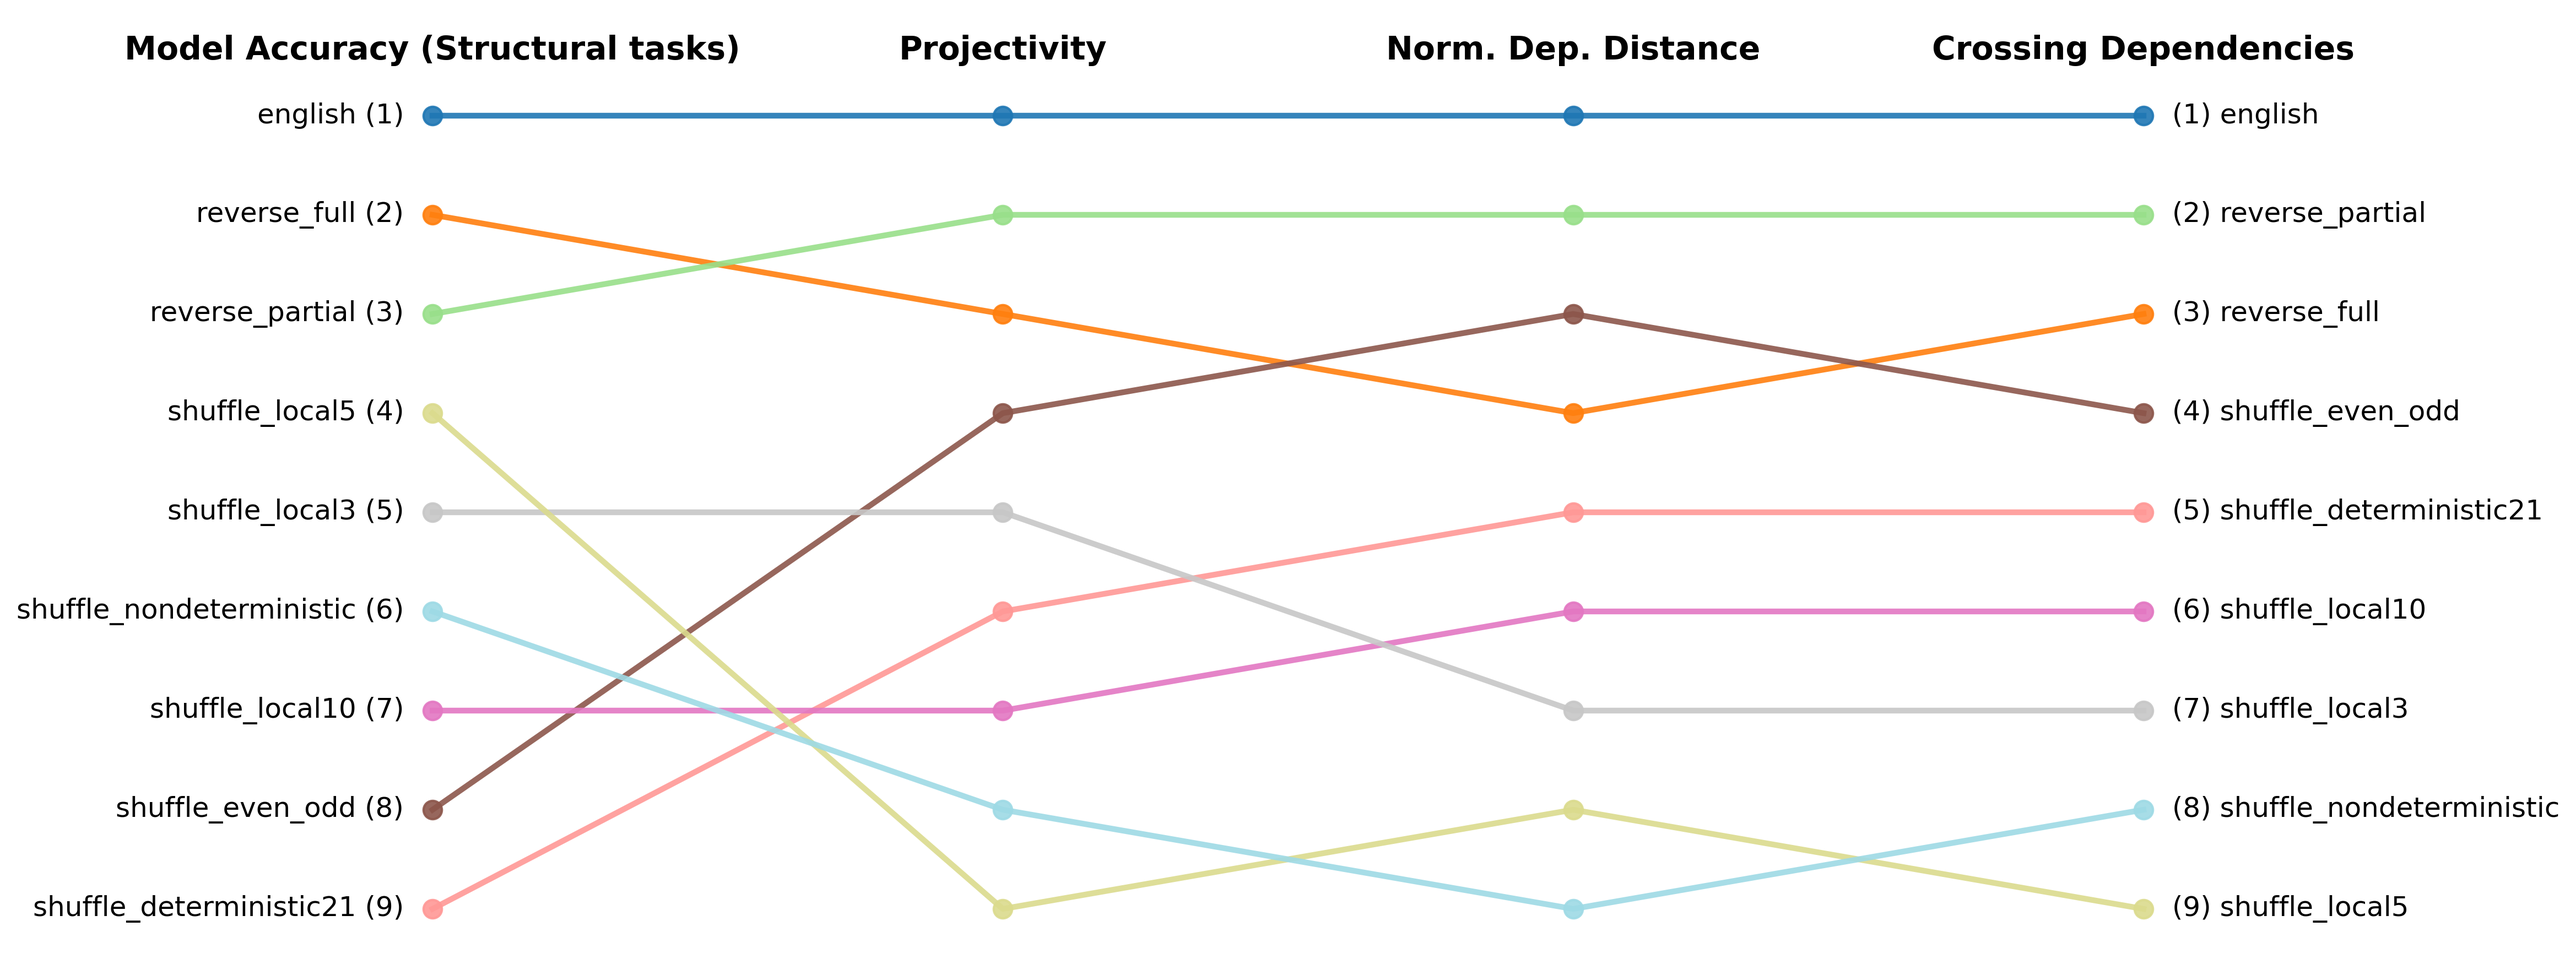
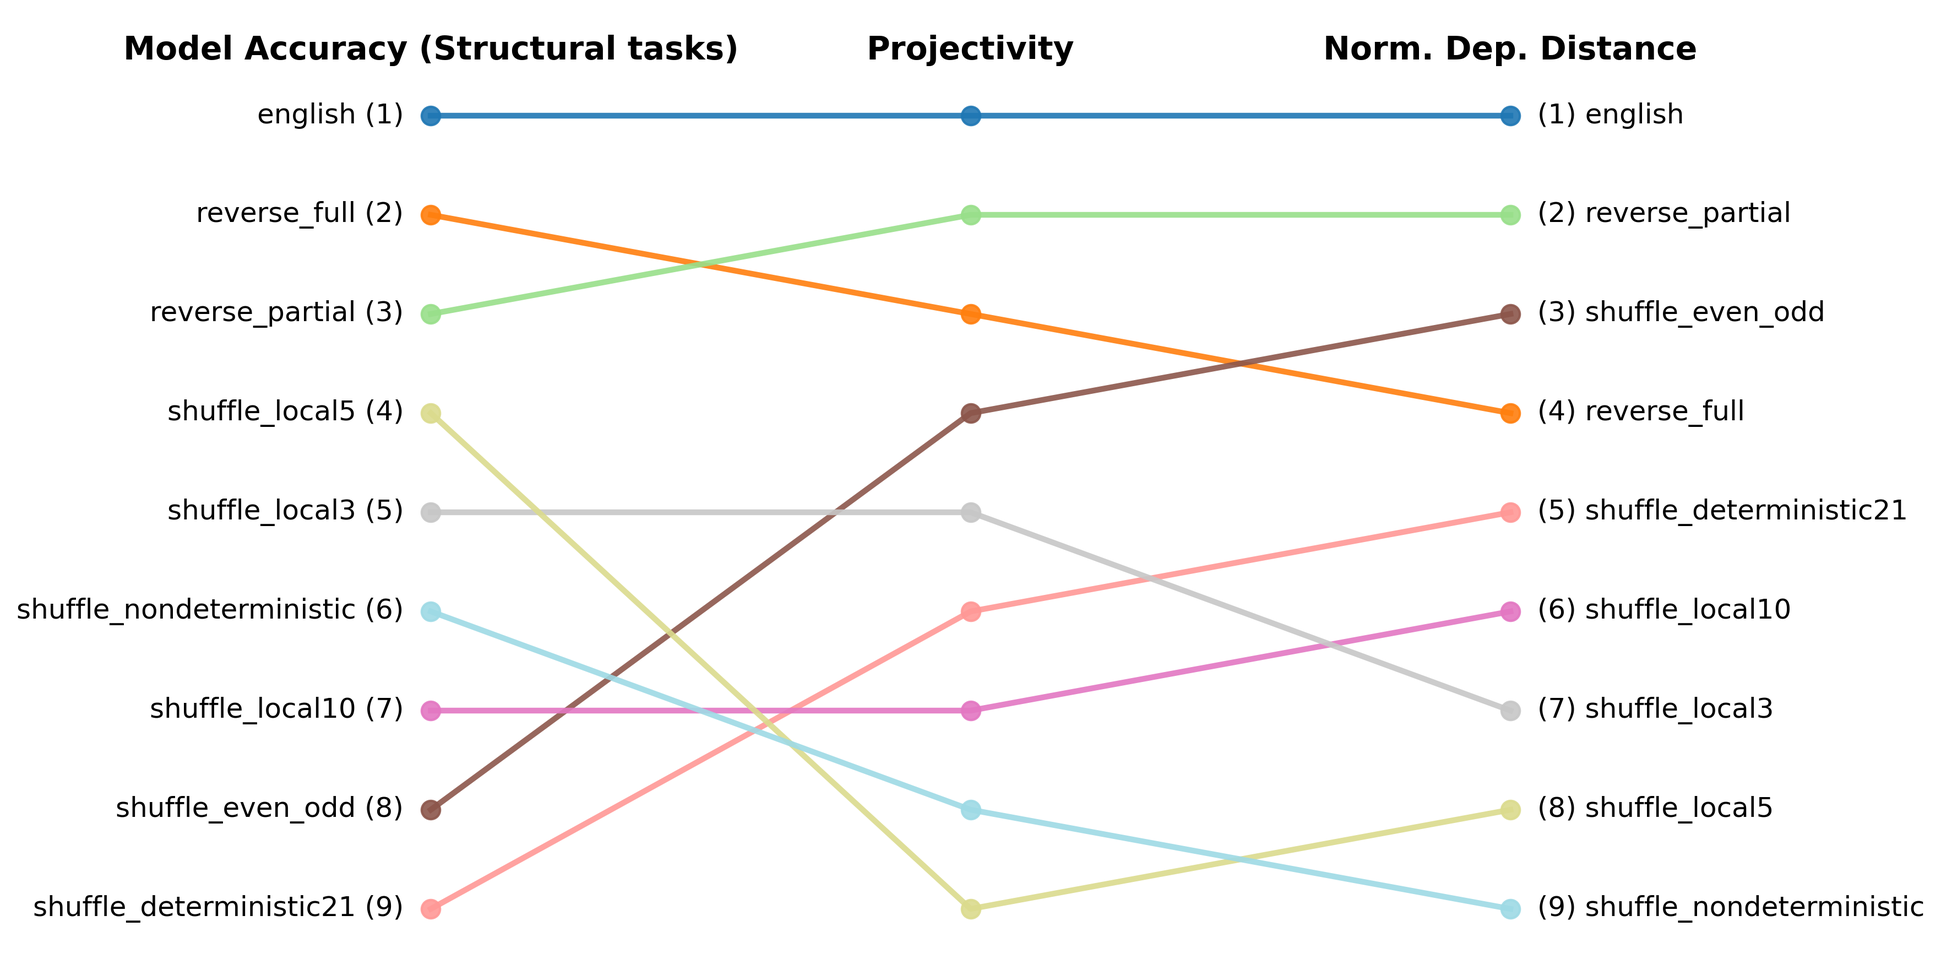
Update dependency parse metrics to remove crossing dependency count

diff --git a/analysis/dependency/dependency_parse_stats.py b/analysis/dependency/dependency_parse_stats.py
@@ -1,3 +1,5 @@
+from ast import List
+import string
 import spacy
 import pandas as pd
 import matplotlib.pyplot as plt
@@ -109,7 +111,7 @@ def aggregate_stats(filepath):
 
 
 
-def generate_stats_table_image(filepath):
+def generate_stats_table_image(filepath, column):
     """Generates and saves a PNG image of the aggregated stats table."""
     df = pd.read_csv(filepath)
     grouped = df.groupby('perturbation')
@@ -127,7 +129,8 @@ def generate_stats_table_image(filepath):
 
     # Create a DataFrame from the aggregated stats
     stats_df = pd.DataFrame.from_dict(agg_stats, orient='index')
-    stats_df = stats_df.sort_values(by='proportion_projective', ascending=False)
+    ascending = column == 'avg_norm_dep_distance'
+    stats_df = stats_df.sort_values(by=column, ascending=ascending)
 
     # Prepare data for the table
     stats_df.index.name = 'Perturbation Type'
@@ -137,35 +140,40 @@ def generate_stats_table_image(filepath):
     # Select and rename columns for the final table
     table_df = stats_df[[
         'Perturbation Type',
-        'proportion_projective',
-        'avg_norm_dep_distance',
+        column,
+        # 'avg_norm_dep_distance',
         # 'avg_total_dep_distance',
-        'avg_crossing_deps',
+        # 'avg_crossing_deps',
         # 'num_sentences'
     ]].copy()
 
+    if column == 'avg_norm_dep_distance':
+        title = 'Avg Norm Dep Distance'
+    else:
+        title = 'Proportion Projective'
+
     table_df.columns = [
         'Perturbation Type',
-        'Proportion Projective',
-        'Avg Norm Dep Distance',
+        title,
         # 'Avg Total Dep Distance',
-        'Avg Crossing Deps',
+        # 'Avg Crossing Deps',
         # 'Num Sentences'
     ]
 
     # Round the float values for better display
-    for col in ['Avg Norm Dep Distance', 'Avg Crossing Deps']:
-        table_df[col] = table_df[col].round(2)
-    table_df['Proportion Projective'] = (table_df['Proportion Projective'] * 100).round(2).astype(str) + '%'
+    if column == 'avg_norm_dep_distance':
+        table_df['Avg Norm Dep Distance'] = table_df['Avg Norm Dep Distance'].round(2)
+    else:
+        table_df['Proportion Projective'] = (table_df['Proportion Projective'] * 100).round(2).astype(str) + '%'
 
     # Create the table image
-    fig, ax = plt.subplots(figsize=(12, 4))
+    fig, ax = plt.subplots(figsize=(6, 4))
     ax.axis('tight')
     ax.axis('off')
     the_table = ax.table(cellText=table_df.values, colLabels=table_df.columns, loc='center', cellLoc='center')
     the_table.auto_set_font_size(False)
     the_table.set_fontsize(10)
-    the_table.scale(1.2, 1.2)
+    # the_table.scale(1.2, 1.2)
 
     # Make the header row bold, larger, and with a background color
     header_cells = the_table._cells
@@ -176,14 +184,31 @@ def generate_stats_table_image(filepath):
             cell.set_edgecolor('black')
 
     # Save the figure
-    output_path = Path(filepath).parent / 'dependency_metrics_summary.png'
+    filename = 'dependency_metrics_summary_' + column + '.png'
+    output_path = Path(filepath).parent / filename
     plt.savefig(output_path, bbox_inches='tight', dpi=300)
     print(f"\nSaved stats table to: {output_path}")
 
+     # --- Crop the image to remove excess whitespace ---
+    try:
+        from PIL import Image
+        im = Image.open(output_path)
+        width, height = im.size
+        left = int(width * 0)
+        upper = int(height * 0.2)
+        right = int(width * 1)
+        lower = int(height * 0.8)
+        im_cropped = im.crop((left, upper, right, lower))
+        im_cropped.save(output_path)
+        print(f"Cropped image saved to {output_path}")
+    except Exception as e:
+        print(f"Warning: Could not crop image: {e}")
+
 def main():
-    apply_perturbations()
-    aggregate_stats('analysis/output/dep_stats.csv')
-    generate_stats_table_image('analysis/output/dep_stats.csv')
+    # apply_perturbations()
+    # aggregate_stats('analysis/output/dep_stats.csv')
+    generate_stats_table_image('analysis/output/dep_stats.csv', 'proportion_projective')
+    generate_stats_table_image('analysis/output/dep_stats.csv', 'avg_norm_dep_distance')
    
 if __name__ == "__main__":
     main()

diff --git a/analysis/performance_statistics.py b/analysis/performance_statistics.py
@@ -679,7 +679,6 @@ def main():
             "Model Accuracy (Structural tasks)": accuracy_ranking_structural,
             "Projectivity": projectivity_ranking,
             "Norm. Dep. Distance": dep_dist_ranking,
-            "Crossing Dependencies": crossing_dependencies_ranking,
         },
         output_path="analysis/output/structural_ranking_inconsistency.png",
         title="Structural Phenomena: Ranking Inconsistency"
